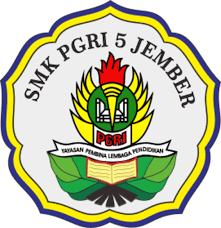
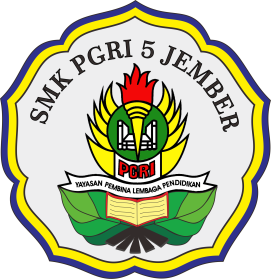
change ui

diff --git a/src/views/login.vue b/src/views/login.vue
@@ -2,6 +2,7 @@
 	import { reactive } from 'vue';
 	import Form, { rule } from '../components/Form.vue';
 	import { http, notify } from '../lib';
+	import logo from "../images/smk.png";
 
 	const state = reactive({
 		req: {
@@ -40,18 +41,14 @@
 </script>
 
 <template>
-	<div class="min-h-screen bg-[#006cea] flex">
-		<div class="lg:w-1/2 min-h-screen w-full lg:flex items-center justify-center hidden animate-down">
-			<img
-				src="https://img.freepik.com/free-vector/mobile-login-concept-illustration_114360-83.jpg?w=2000"
-				alt=""
-				class="rounded w-500px block ripple"
-			/>
-		</div>
-		<div
-			class="lg:w-1/2 lg:bg-white min-h-screen w-full flex lg:items-center items-end justify-center animate-up"
-		>
-			<div class="bg-white rounded p-8 lg:py-8 py-16 rounded-t-3xl w-full max-w-500px">
+	<div class="min-h-screen bg-gradient-to-b from-[#202b46] to-gray-800 flex items-center justify-center p-5">
+		<!-- <div class="absolute bottom-0 left-0 right-0 h-[50vh] bg-gray-100">
+		</div> -->
+		<div class="rounded-xl relative shadow-lg flex justify-between w-full lg:w-3/4 overflow-hidden">
+			<div class="grow lg:flex hidden w-full bg-black bg-opacity-25 items-center justify-center" style="backdrop-filter: blur(8px);">
+				<img :src="logo" alt="Logo SMK" class="w-[200px]">
+			</div>
+			<div class="grow p-10 lg:py-20 bg-white">
 				<div class="text-xl mb-6 border-b pb-3 font-semibold">Login</div>
 				<Form @submit="login" class="form-field" :values="state.req" :rules="rules">
 					<label for="">Username</label>
@@ -63,7 +60,7 @@
 						v-model="state.req.password"
 					/>
 					<input type="checkbox" v-model="state.showPassword" /> Lihat Password
-
+		
 					<div class="mt-8">
 						<button type="submit" class="w-full ripple">Login</button>
 					</div>

diff --git a/src/views/laporan/spp/perhari.vue b/src/views/laporan/spp/perhari.vue
@@ -26,7 +26,7 @@
 			})
 			.then((res) => {
 				state.total = 0;
-				state.data = res;
+				state.data = res.reverse();
 
 				res.forEach((item) => {
 					state.total_bulan += parseInt(item.total_bulan.replace(' Bulan'));
@@ -48,7 +48,7 @@
 <template>
 	<Card title="Laporan Perhari">
 		<div class="form-field">
-			<input type="date" v-model="state.filter._tanggal" />
+			<input type="date" v-model.lazy="state.filter._tanggal" />
 		</div>
 		<div class="p-4 bg-gray-50 rounded mb-4">Tanggal: {{ formatDate(state.filter._tanggal) }}</div>
 		<div class="text-right mb-4 text-sm">

diff --git a/src/views/laporan/spp/perbulan.vue b/src/views/laporan/spp/perbulan.vue
@@ -54,12 +54,12 @@
 					type="date"
 					class="!mb-0"
 					:max="state.filter._tanggal_akhir"
-					v-model="state.filter._tanggal_awal"
+					v-model.lazy="state.filter._tanggal_awal"
 				/>
 			</div>
 			<div>
 				<label for="">Tanggal Akhir</label>
-				<input type="date" class="!mb-0" v-model="state.filter._tanggal_akhir" />
+				<input type="date" class="!mb-0" v-model.lazy="state.filter._tanggal_akhir" />
 			</div>
 		</div>
 		<div class="p-4 bg-gray-50 rounded mb-4">

diff --git a/src/main.css b/src/main.css
@@ -1,7 +1,7 @@
-@import url("https://fonts.googleapis.com/css2?family=Poppins&display=swap");
+@import url("https://fonts.googleapis.com/css2?family=Inter&display=swap");
 
 * {
-  font-family: "Poppins", Roboto, Oxygen, Ubuntu, Cantarell, "Open Sans",
+  font-family: "Inter", Roboto, Oxygen, Ubuntu, Cantarell, "Open Sans",
     "Helvetica Neue", sans-serif;
   scroll-behavior: smooth;
 }

diff --git a/src/layouts/Admin.vue b/src/layouts/Admin.vue
@@ -185,7 +185,7 @@
 					</template>
 				</div>
 			</div>
-			<div class="lg:grow w-full custom-main-admin">
+			<div class="w-screen lg:pl-80 lg:-ml-80 custom-main-admin">
 				<div
 					class="h-18 bg-white text-gray-700 shadow sticky top-0 flex items-center z-20 justify-between p-4"
 				>
